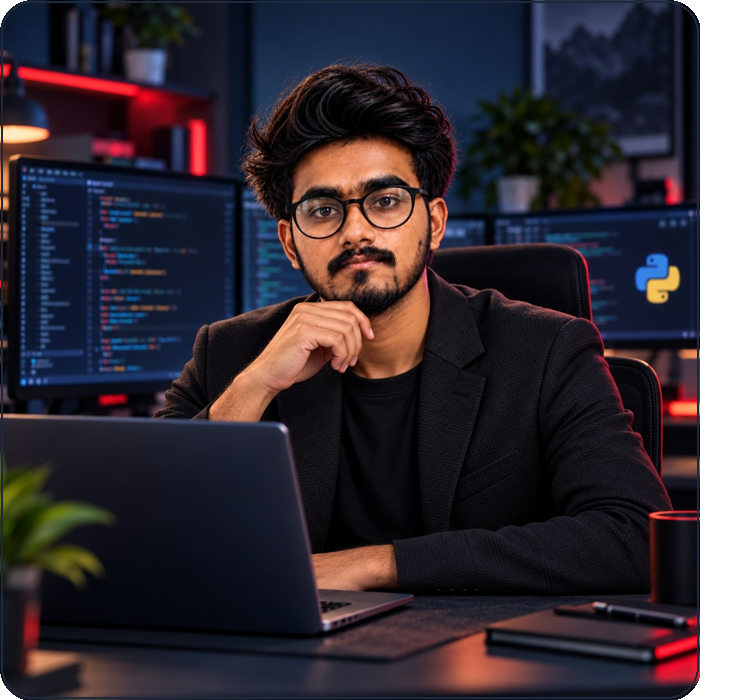
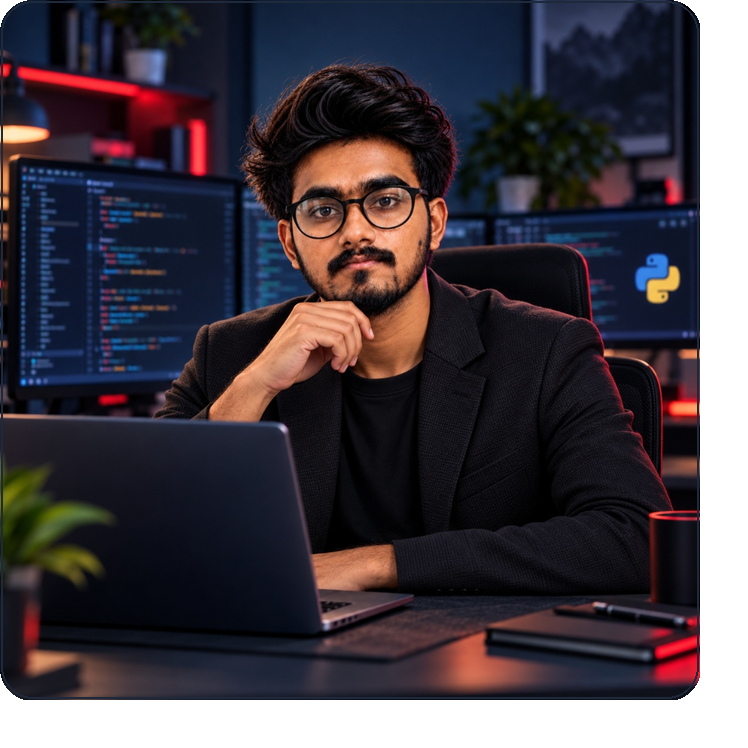
Optimize card layout and portrait proportions for GitHub profile view

diff --git a/README.md b/README.md
@@ -4,13 +4,13 @@
 <td style="padding: 24px 24px 22px 24px;">
 <div align="center" style="margin-bottom: 20px;">
 <picture>
-<source media="(prefers-color-scheme: dark)" srcset="https://raw.githubusercontent.com/chimataraghuram/chimataraghuram/main/images/hero_header_animated.svg?v=20261026d">
-<source media="(prefers-color-scheme: light)" srcset="https://raw.githubusercontent.com/chimataraghuram/chimataraghuram/main/images/hero_header_animated.svg?v=20261026d">
-<img src="https://raw.githubusercontent.com/chimataraghuram/chimataraghuram/main/images/hero_header_animated.svg?v=20261026d" width="100%" alt="Chimata Raghuram" />
+<source media="(prefers-color-scheme: dark)" srcset="https://raw.githubusercontent.com/chimataraghuram/chimataraghuram/main/images/hero_header_animated.svg?v=20261026e">
+<source media="(prefers-color-scheme: light)" srcset="https://raw.githubusercontent.com/chimataraghuram/chimataraghuram/main/images/hero_header_animated.svg?v=20261026e">
+<img src="https://raw.githubusercontent.com/chimataraghuram/chimataraghuram/main/images/hero_header_animated.svg?v=20261026e" width="100%" alt="Chimata Raghuram" />
 </picture>
 </div>
 <div>
-<img align="left" width="350" src="https://raw.githubusercontent.com/chimataraghuram/chimataraghuram/main/images/raghuram_dev.png?v=20261026" alt="Chimata Raghuram" />
+<img align="left" width="310" src="https://raw.githubusercontent.com/chimataraghuram/chimataraghuram/main/images/raghuram_dev.png?v=20261026e" alt="Chimata Raghuram" />
 <div>
 <p style="font-size: 1.02em; line-height: 1.6; margin: 0 0 14px 0; color: #CBD5E1;">
 A B.Tech student with a diploma background in <b>AI &amp; ML</b>, focused on developing Python full-stack with AI-powered and automated applications.
